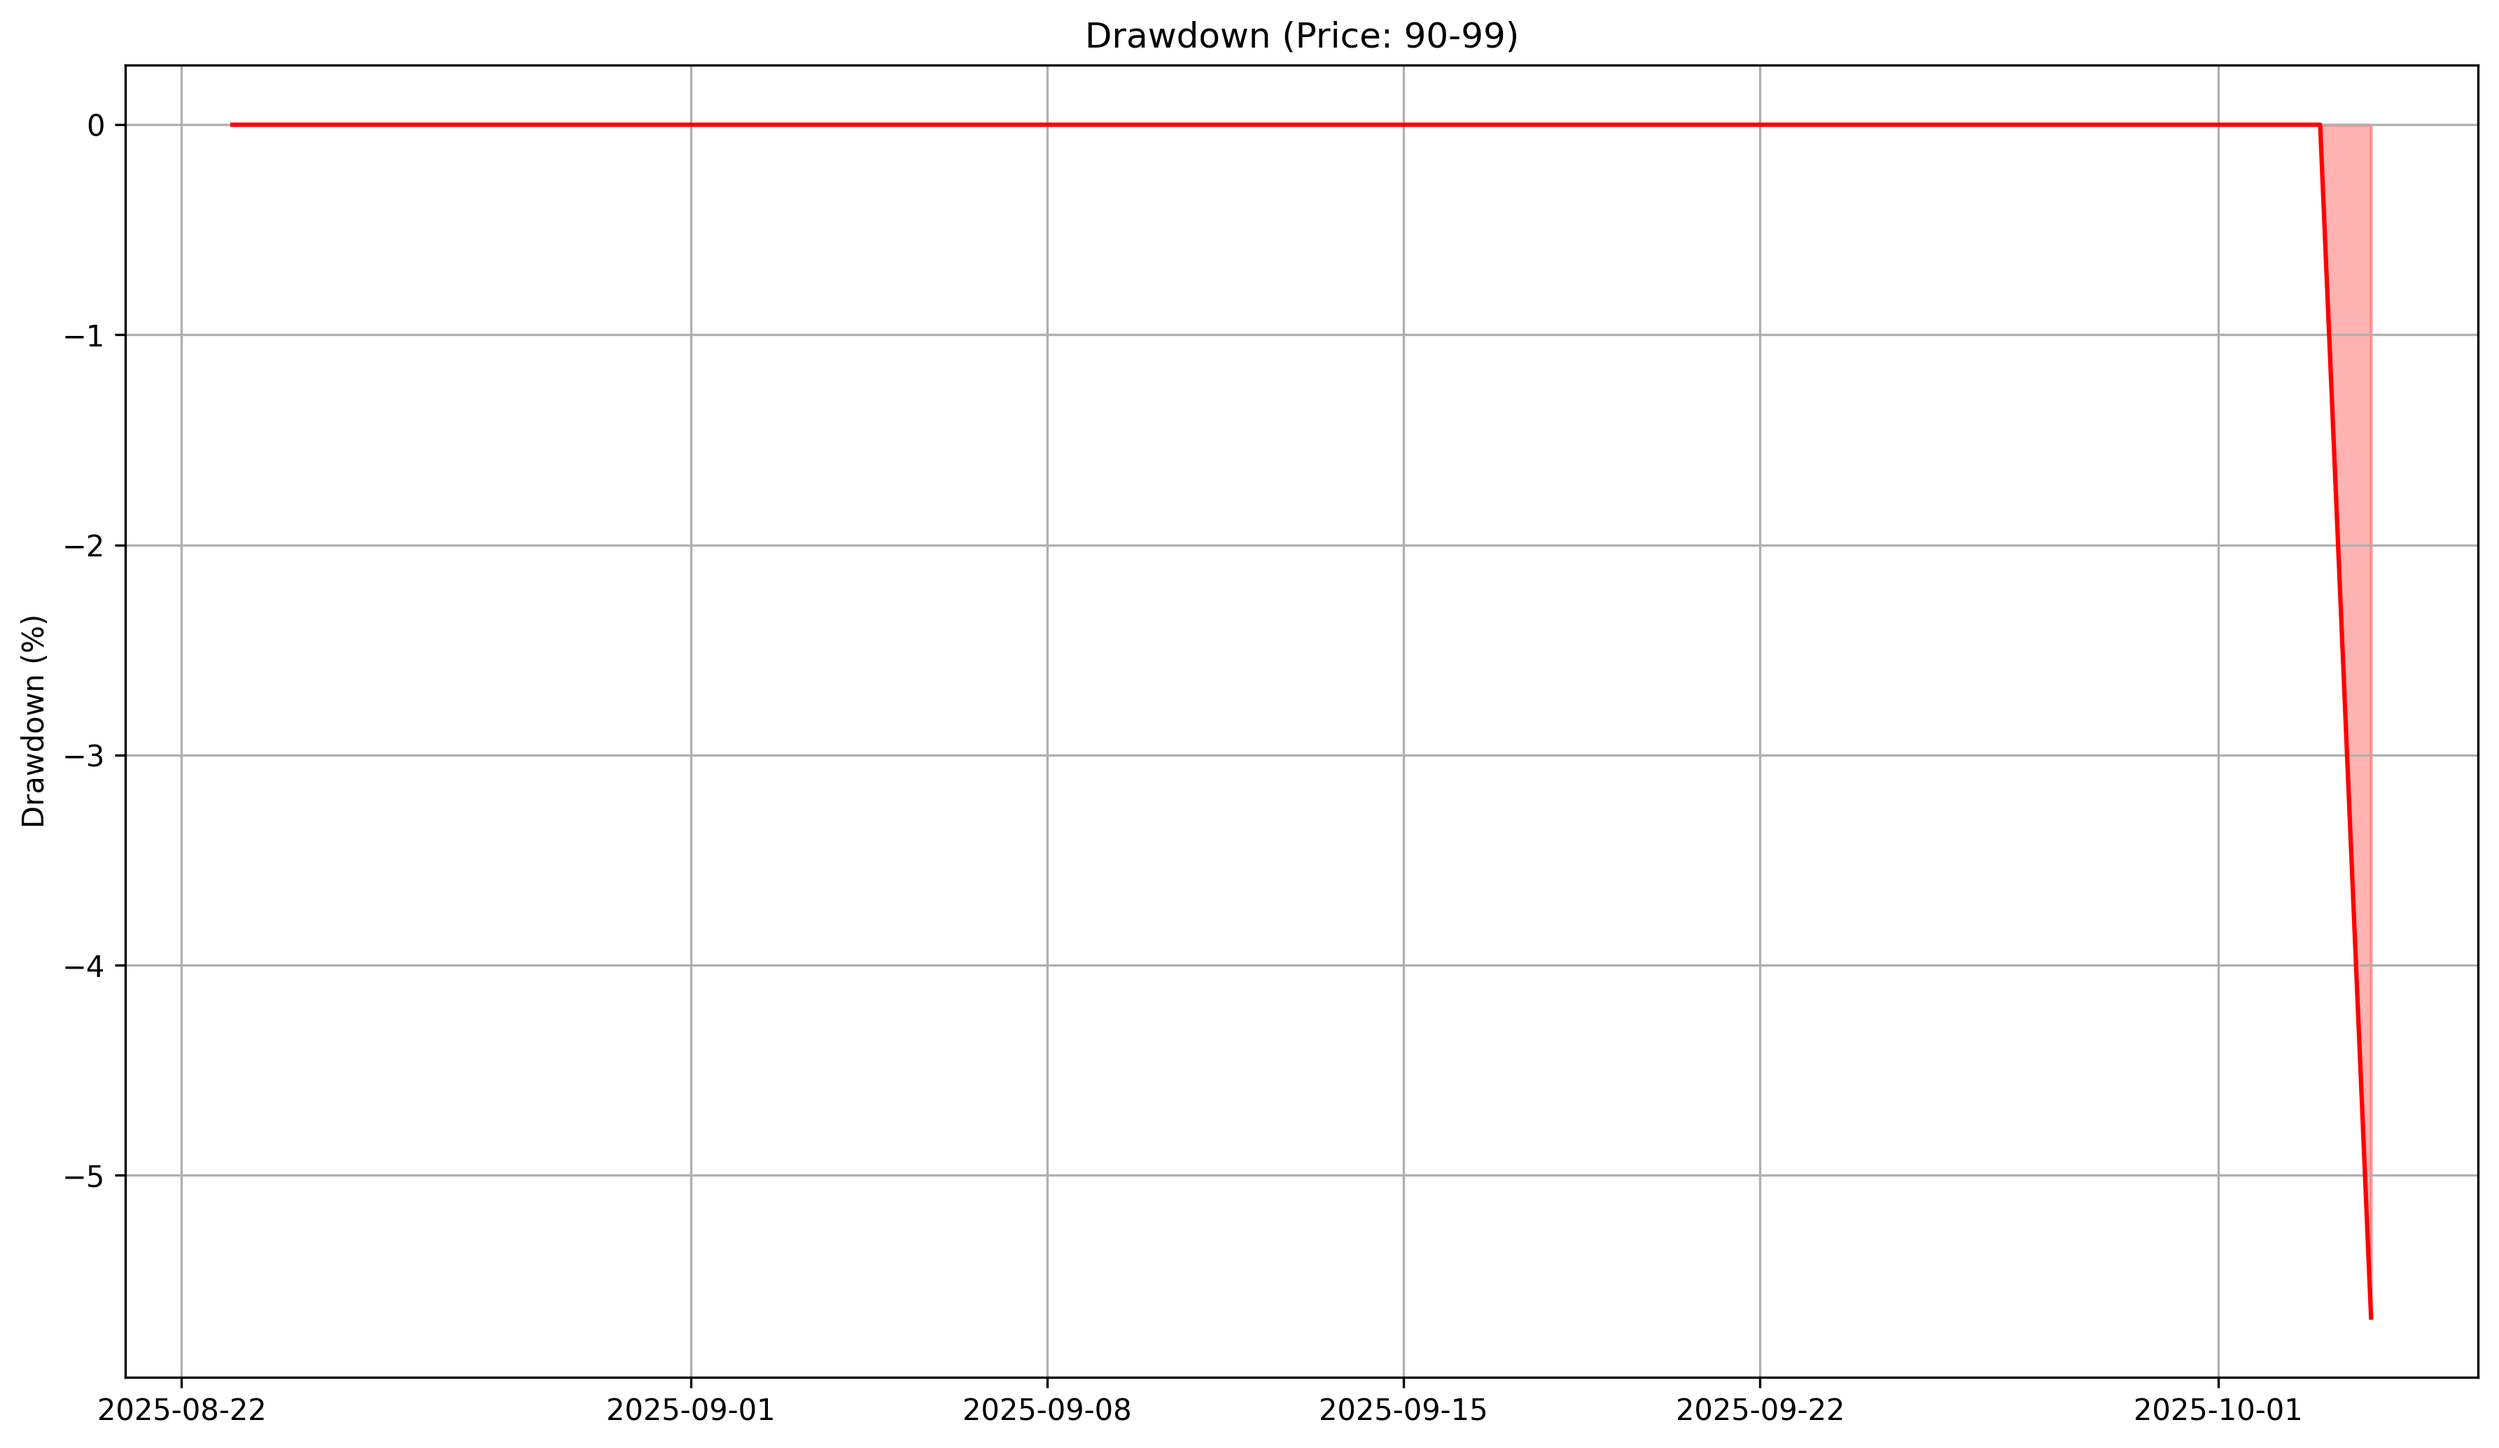
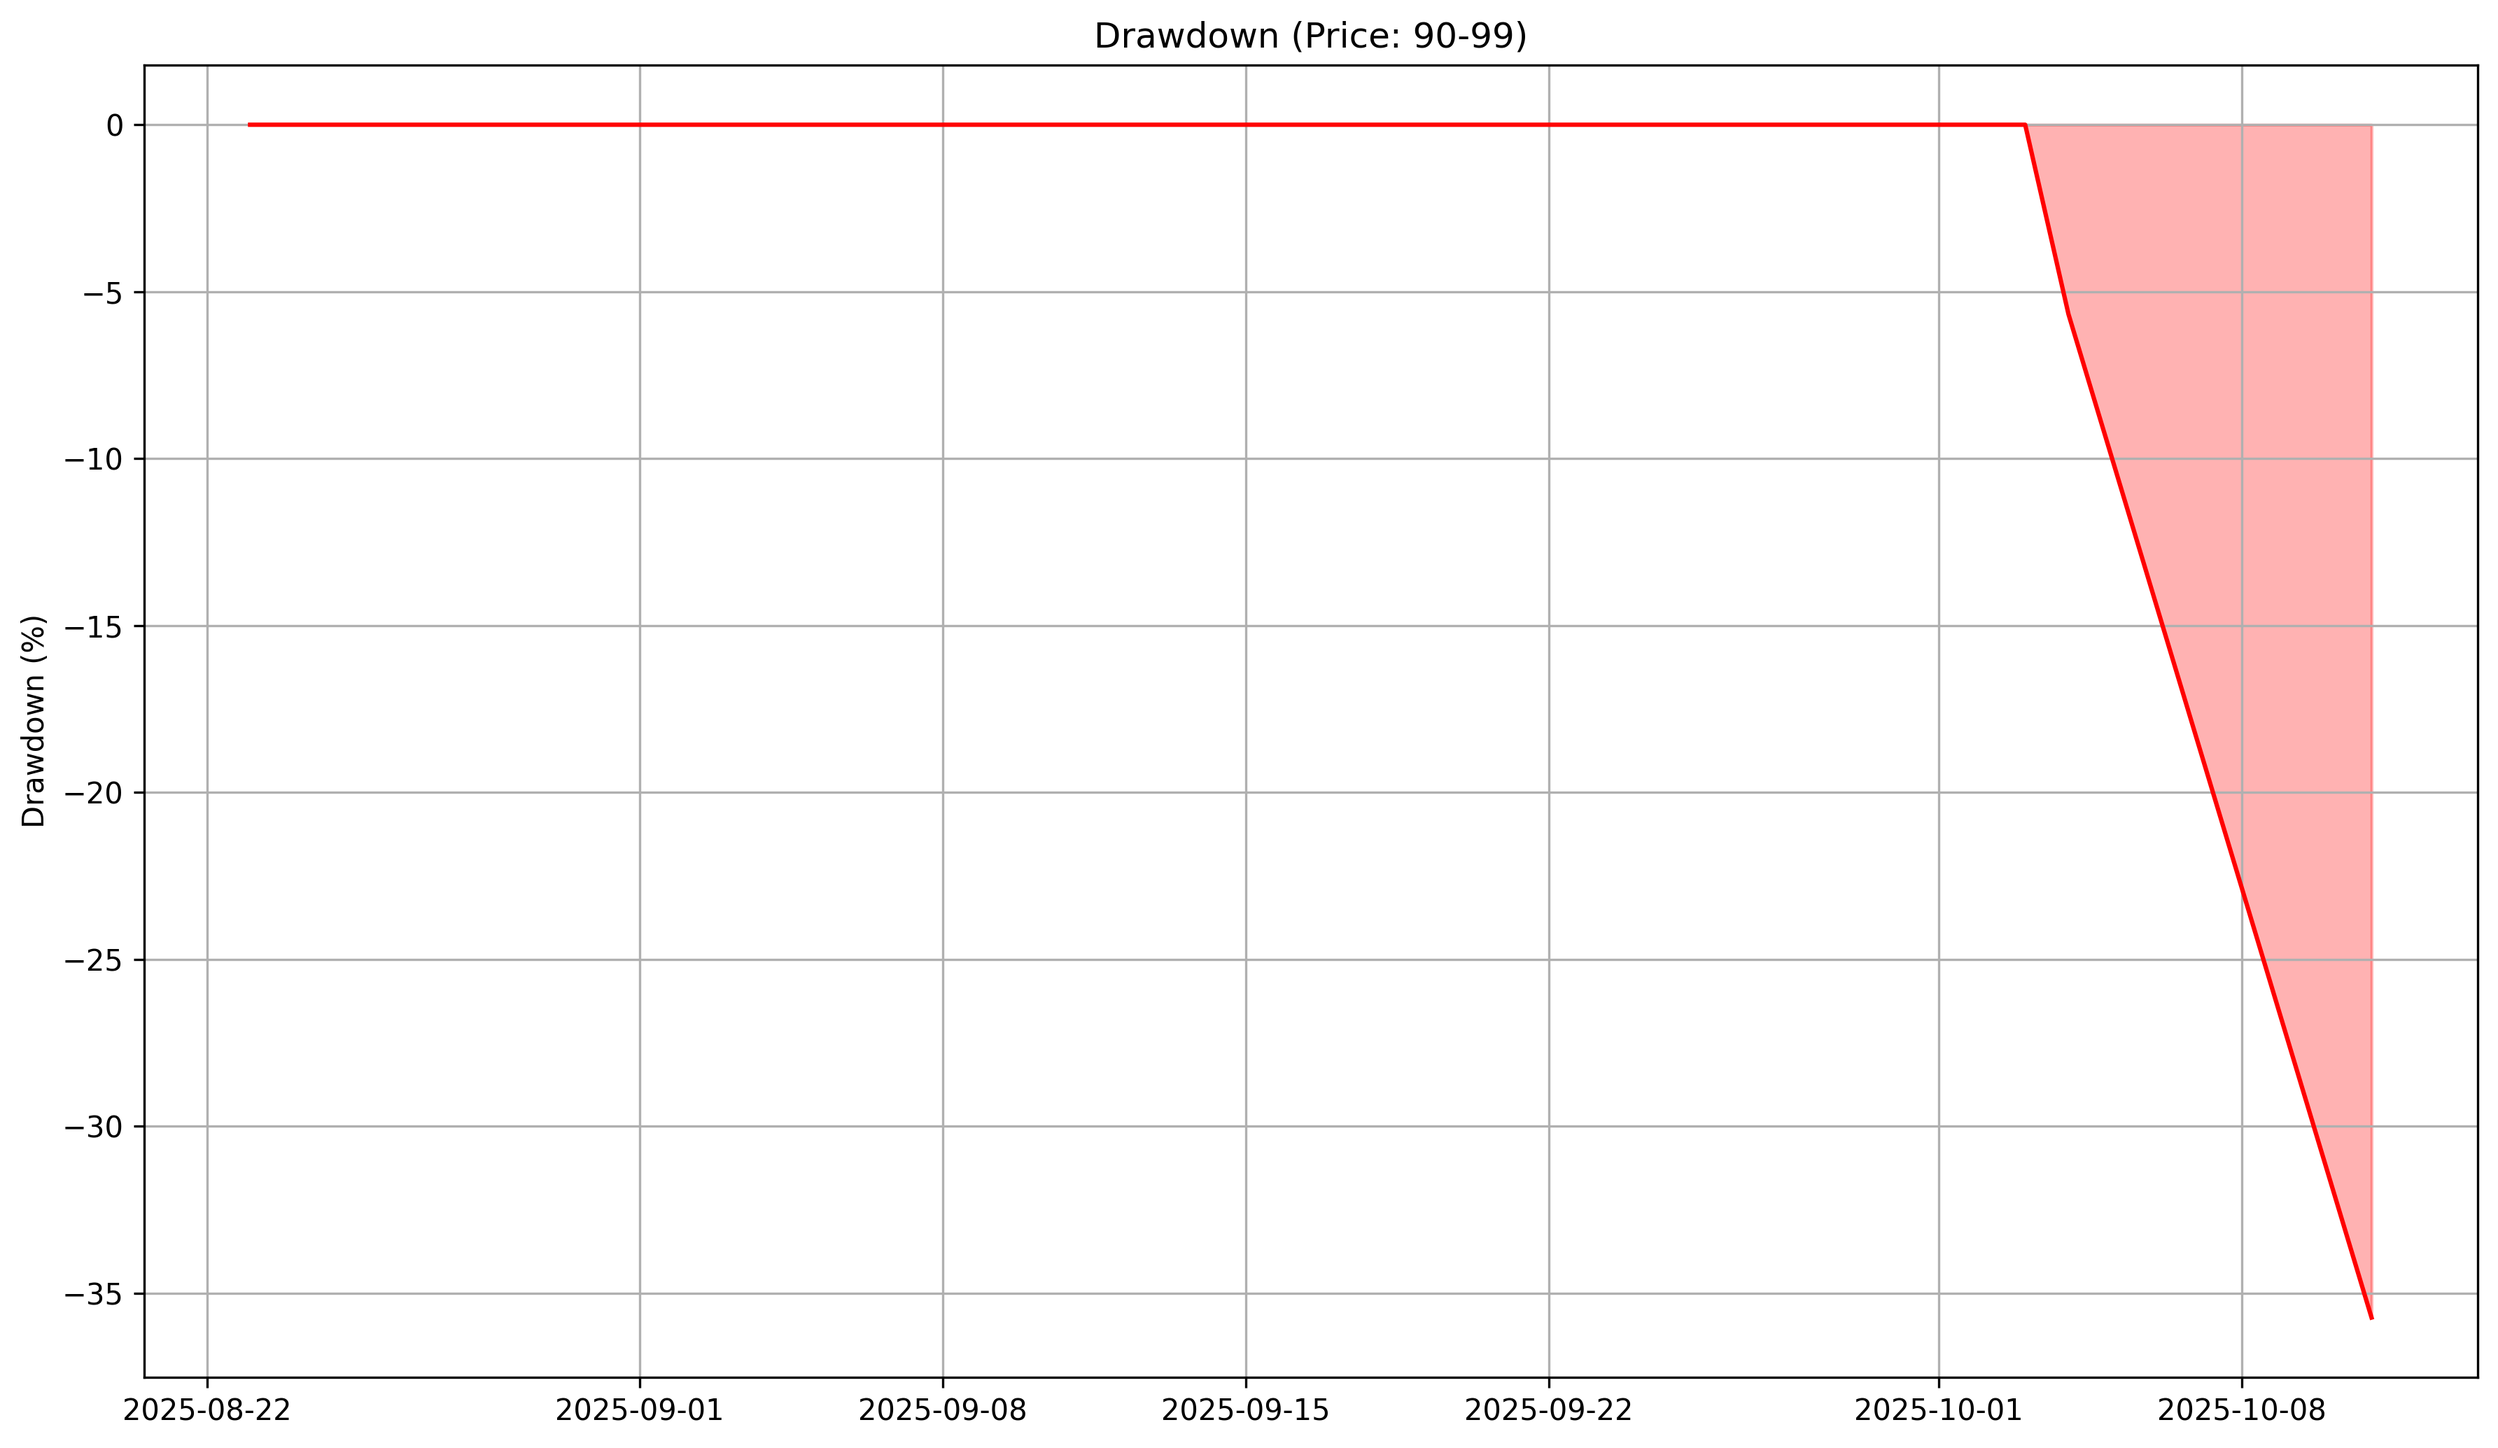
Updated results.

diff --git a/nt_research/research/underdog_risk_premium/experiment_4.py b/nt_research/research/underdog_risk_premium/experiment_4.py
@@ -160,7 +160,7 @@ if __name__ == "__main__":
     os.makedirs(folder, exist_ok=True)
 
     # Load data
-    df = pl.read_parquet('data/2025-10-08_history_daily.parquet')
+    df = pl.read_parquet('data/2025-10-12_history_daily.parquet')
 
     # Get strategy returns
     results = get_strategy_returns(df, price_min, price_max)

diff --git a/nt_research/research/underdog_risk_premium/data_utils.py b/nt_research/research/underdog_risk_premium/data_utils.py
@@ -8,7 +8,7 @@ def get_trades(
     time_bin: str | None = None,
     price_bin: str | None = None,
 ):
-    df = pl.read_parquet("data/2025-10-05_history.parquet")
+    df = pl.read_parquet("data/2025-10-12_history.parquet")
 
     price_breaks = [0, 10, 20, 30, 40, 50, 60, 70, 80, 90, 99]
     time_breaks = np.arange(
